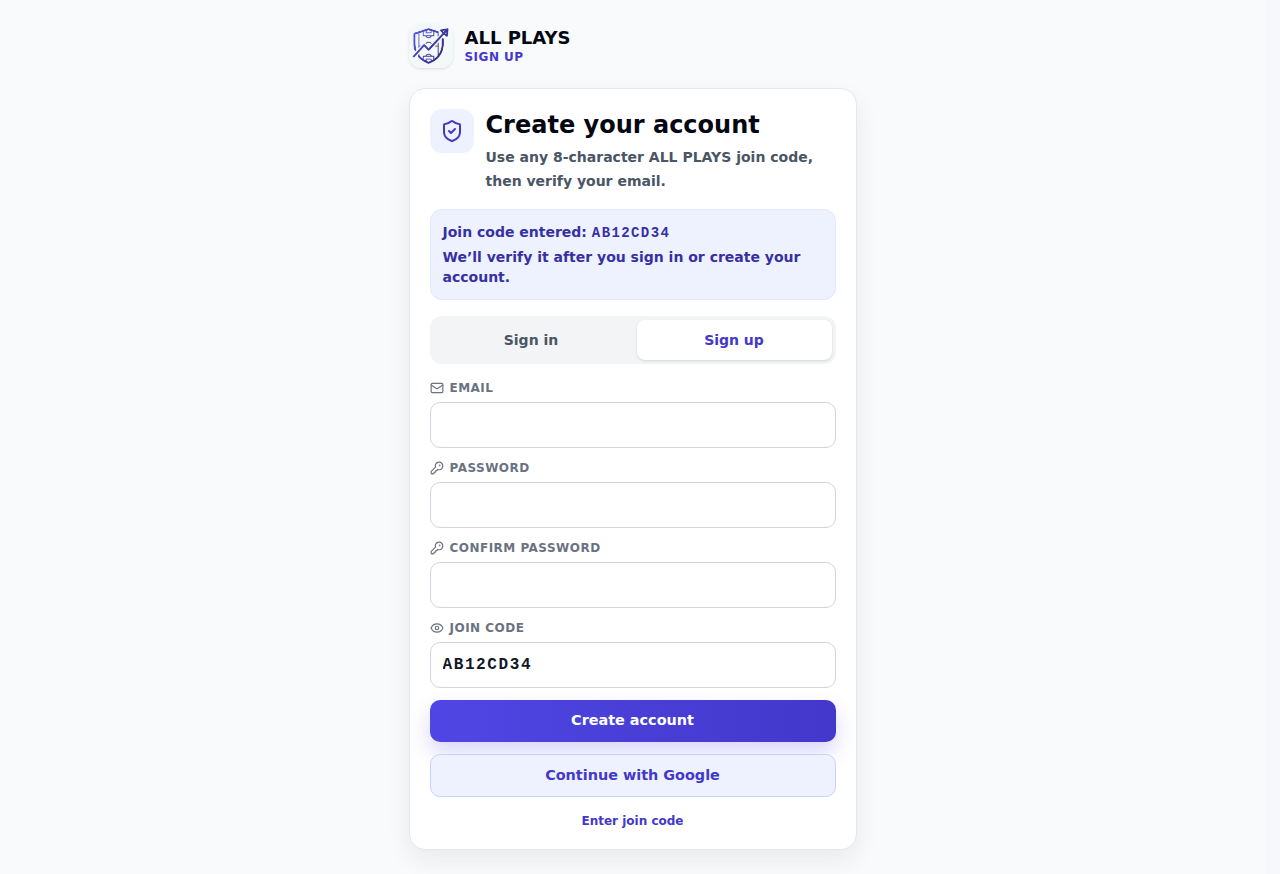
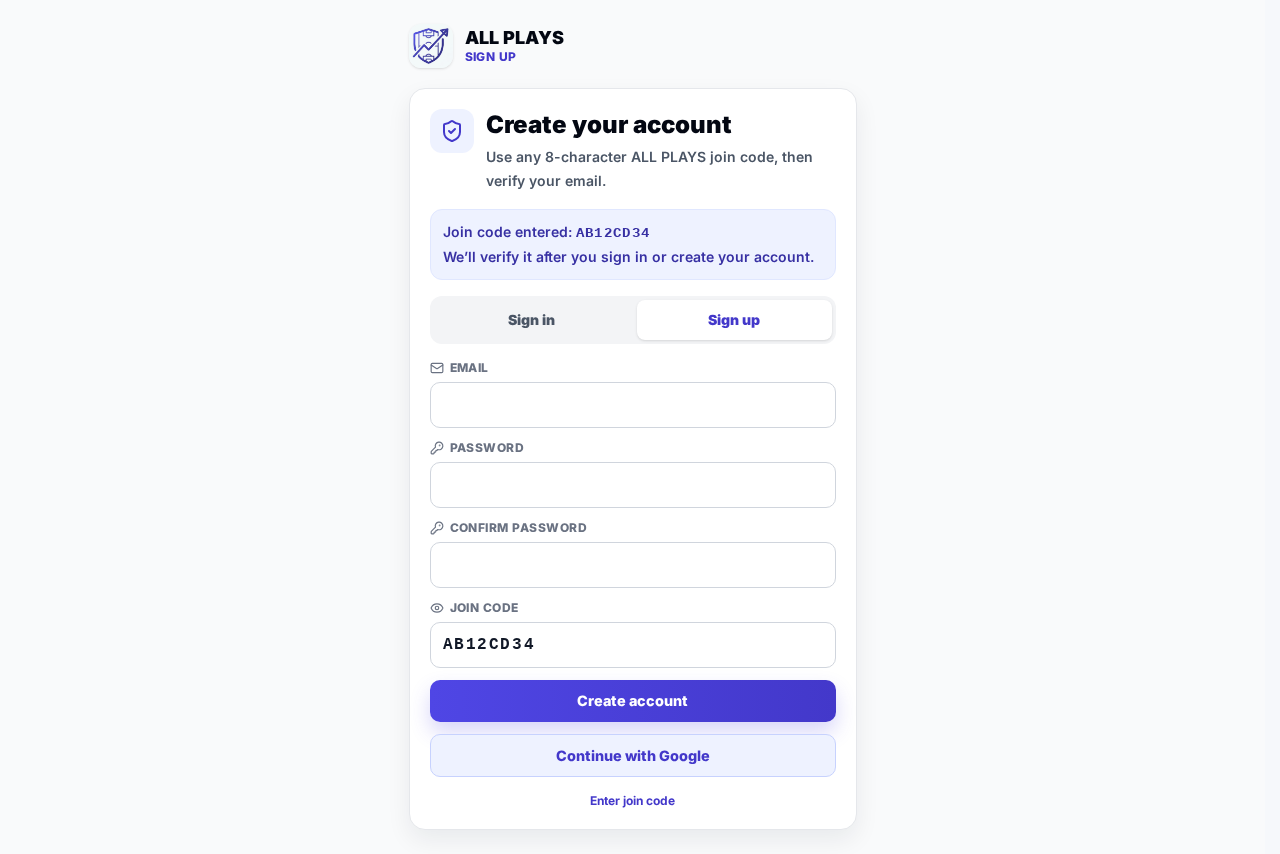
fix:address-ci-failure: restore pinned-font visual baselines

diff --git a/tests/unit/visual-regression-wiring.test.js b/tests/unit/visual-regression-wiring.test.js
@@ -32,8 +32,10 @@ describe('visual regression CI wiring', () => {
         expect(helper).toContain("require.resolve('@fontsource-variable/inter/files/inter-latin-wght-normal.woff2')");
         expect(helper).toContain('#root, #root button, #root input, #root select, #root textarea');
         expect(helper).toContain('document.fonts.load(`${weight} 16px AllPlaysVisualInter`)');
-        expect(authVisual).toMatch(/'auth-join-code-signup\.png', \{\s+maxDiffPixels: undefined,\s+maxDiffPixelRatio: 0\.01\s+\}/);
-        expect(scheduleVisual).toMatch(/'family-schedule\.png', \{\s+maxDiffPixels: undefined,\s+maxDiffPixelRatio: 0\.01\s+\}/);
+        expect(authVisual).toContain("expectVisualSnapshot(page, 'auth-join-code-signup.png')");
+        expect(scheduleVisual).toContain("expectVisualSnapshot(page, 'family-schedule.png')");
+        expect(authVisual).not.toContain('maxDiffPixelRatio');
+        expect(scheduleVisual).not.toContain('maxDiffPixelRatio');
     });
 
     it('checks the legacy Tailwind fixture only in the dependency-bearing visual command', () => {

diff --git a/tests/smoke/app-auth-profile.spec.js b/tests/smoke/app-auth-profile.spec.js
@@ -591,10 +591,7 @@ test('@visual app auth screen exposes sign in, sign up, Google, activation code,
     await expect(page.getByRole('button', { name: 'Continue with Google' })).toBeVisible();
     await expect(page.getByRole('link', { name: 'Enter join code' })).toBeVisible();
     await expect(page.getByRole('link', { name: 'Account action' })).toHaveCount(0);
-    await expectVisualSnapshot(page, 'auth-join-code-signup.png', {
-        maxDiffPixels: undefined,
-        maxDiffPixelRatio: 0.01
-    });
+    await expectVisualSnapshot(page, 'auth-join-code-signup.png');
 
     await page.getByRole('button', { name: 'Sign in' }).first().click();
     await page.getByRole('button', { name: 'Forgot password?' }).click();

diff --git a/tests/smoke/app-schedule.spec.js b/tests/smoke/app-schedule.spec.js
@@ -1202,10 +1202,7 @@ test('@visual app schedule loads agenda filters, player select, calendar, export
     await expect(page.getByText('Snacks: Open')).toHaveCount(0);
     await expect(page.getByText('Rideshare')).toHaveCount(0);
     expect(await page.evaluate(() => window.__scheduleCalls.loads)).toBeGreaterThanOrEqual(1);
-    await expectVisualSnapshot(page, 'family-schedule.png', {
-        maxDiffPixels: undefined,
-        maxDiffPixelRatio: 0.01
-    });
+    await expectVisualSnapshot(page, 'family-schedule.png');
 
     await page.getByRole('button', { name: 'Upcoming Practices' }).click();
     await expect(page.getByRole('heading', { name: 'Practice', exact: true })).toBeVisible();